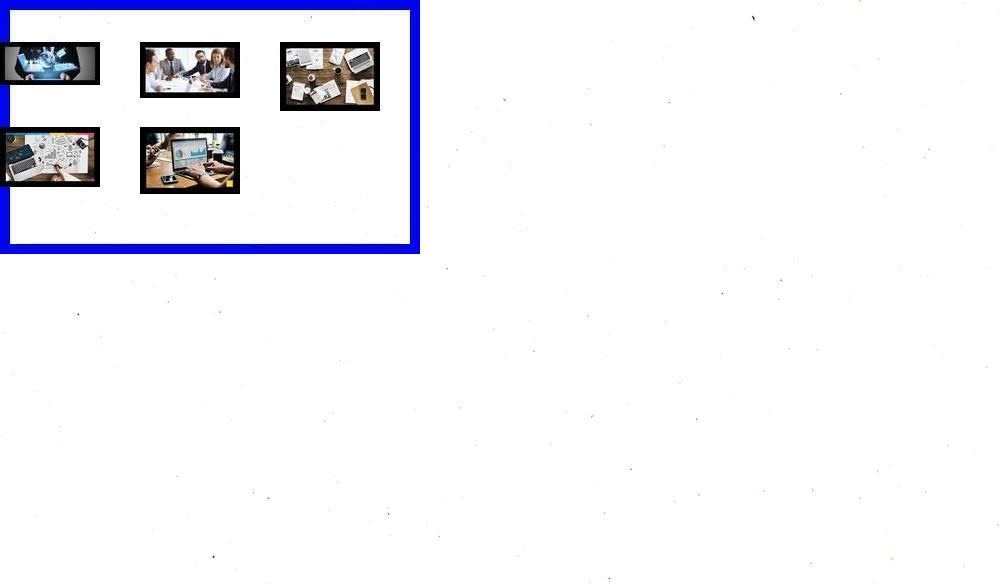
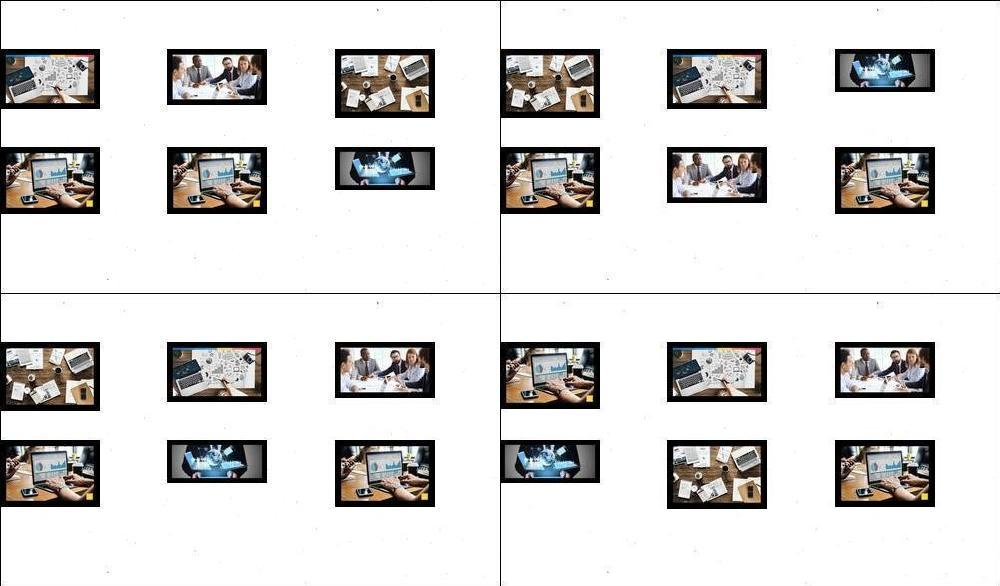
hello

diff --git a/Ruby-ImgProcessing/app.rb b/Ruby-ImgProcessing/app.rb
@@ -4,15 +4,16 @@ background = MiniMagick::Image.open('proc_imgs/white.jpg')
 img_collection = MiniMagick::Image.open('proc_imgs/white.jpg')
 
 img_collection.combine_options do |c|
-  c.resize '400x400'
-  c.border 10
-  c.bordercolor('blue')
+  c.resize '500x500'
+  c.border 1
+  c.bordercolor('black')
 end
+
 x_dim = img_collection.dimensions[0]
 y_dim = img_collection.dimensions[1]
 images = []
 
-1.upto(5) do |num|
+1.upto(6) do |num|
   images[num - 1] = MiniMagick::Image.open("imgs/#{num}.jpeg")
   images[num - 1].combine_options do |c|
     c.border 20
@@ -21,68 +22,58 @@ images = []
   end
 end
 
-random_order = images.sample(5)
+random_order = images.sample(6)
 
 background.combine_options do |c|
   c.resize '1000x1000'
 end
-x = 0
-y = 0
-0.upto(4) do |num|
-  if num < 3
-    img_collection = img_collection.composite(random_order[num]) do |c|
-      c.compose 'Over' # OverCompositeOp
-      c.geometry "+#{x}+#{y_dim / 6}" # copy second_image onto first_image from (20, 20)
-      x += (x_dim / 3.to_f) % x_dim
-    end
-  elsif num < 5
-    img_collection = img_collection.composite(random_order[num]) do |c|
-      c.compose 'Over' # OverCompositeOp
-      c.geometry "+#{y}+#{y_dim / 2}" # copy second_image onto first_image from (20, 20)
-      y += (x_dim / 3.to_f) % x_dim
+
+def create_collection(img_collection, random_images, x_dim, y_dim)
+  x = 0
+  y = 0
+  0.upto(6) do |num|
+    if num < 3
+      img_collection = img_collection.composite(random_images[num]) do |c|
+        c.compose 'Over' # OverCompositeOp
+        c.geometry "+#{x}+#{y_dim / 6}" # copy second_image onto first_image from (20, 20)
+        x += (x_dim / 3.to_f) % x_dim
+      end
+    elsif num < 6
+      img_collection = img_collection.composite(random_images[num]) do |c|
+        c.compose 'Over' # OverCompositeOp
+        c.geometry "+#{y}+#{y_dim / 2}" # copy second_image onto first_image from (20, 20)
+        y += (x_dim / 3.to_f) % x_dim
+      end
     end
   end
+  img_collection
 end
 
-# 3.upto(4) do |num|
-#   y = 200 / 8.to_f
-#   y += num * 60
-#   img_collection = img_collection.composite(random_order[num]) do |c|
-#     c.compose 'Over' # OverCompositeOpend
-#     c.geometry "+#{y}+80" # copy second_image onto first_image from (20, 20)
-#   end
-# end
 
-# img_collection = img_collection.composite(random_order[0]) do |c|
-#   c.compose 'Over' # OverCompositeOp
-#   c.geometry '+10+20' # copy second_image onto first_image from (20, 20)
-# end
+print (1..30).to_a.sample(16)
 
-# img_collection = img_collection.composite(random_order[1]) do |c|
-#   c.compose 'Over'    # OverCompositeOp
-#   c.geometry '+80+20' # copy second_image onto first_image from (20, 20)
-# end
+mainx = background.dimensions[0]
+mainy = background.dimensions[1]
 
-# img_collection = img_collection.composite(random_order[2]) do |c|
-#   c.compose 'Over'    # OverCompositeOp
-#   c.geometry '+140+20' # copy second_image onto first_image from (20, 20)
+background = background.composite(create_collection(img_collection, images.sample(6), x_dim, y_dim)) do |c|
+  c.compose 'Over' 
+  c.geometry "+0+0" 
+end
+background = background.composite(create_collection(img_collection, images.sample(6), x_dim, y_dim)) do |c|
+  c.compose 'Over' 
+  c.geometry "+#{mainx / 2}+0" 
+end
+background = background.composite(create_collection(img_collection, images.sample(6), x_dim, y_dim)) do |c|
+  c.compose 'Over' 
+  c.geometry "+0+#{mainy / 2}" 
+end
+background = background.composite(create_collection(img_collection, images.sample(6), x_dim, y_dim)) do |c|
+  c.compose 'Over' 
+  c.geometry "+#{mainx / 2}+#{mainy / 2}" 
+end
+# background = background.composite(create_collection(img_collection, random_order, x_dim, y_dim)) do |c|
+#   c.compose 'Over' 
+#   c.geometry "+#{mainx * 2}+#{mainy / 6}" 
 # end
-
-# img_collection = img_collection.composite(random_order[3]) do |c|
-#   c.compose 'Over' # OverCompositeOp
-#   c.geometry '+10+80' # copy second_image onto first_image from (20, 20)
-# end
-
-# img_collection = img_collection.composite(random_order[4]) do |c|
-#   c.compose 'Over' # OverCompositeOp
-#   c.geometry '+80+80' # copy second_image onto first_image from (20, 20)
-# end
-
-# img_collection = img_collection.composite(random_order[0]) do |c|
-#   c.compose 'Over' # OverCompositeOp
-#   c.geometry '+140+80' # copy second_image onto first_image from (20, 20)
-# end
-
-background = background.composite(img_collection)
 
 background.write('proc_imgs/output.jpg')
